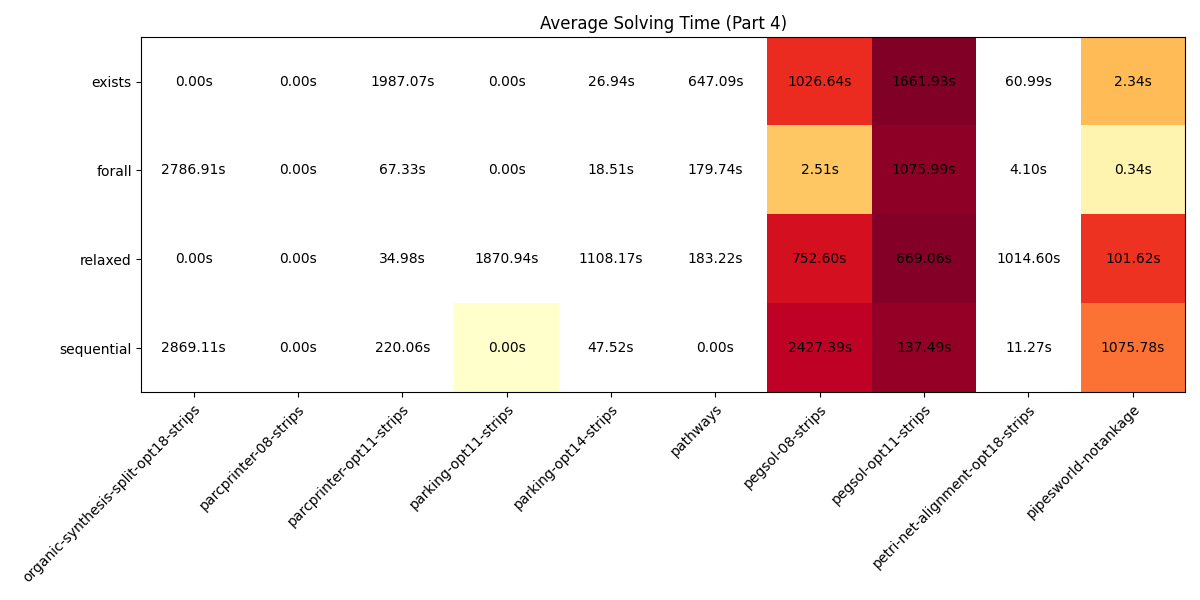
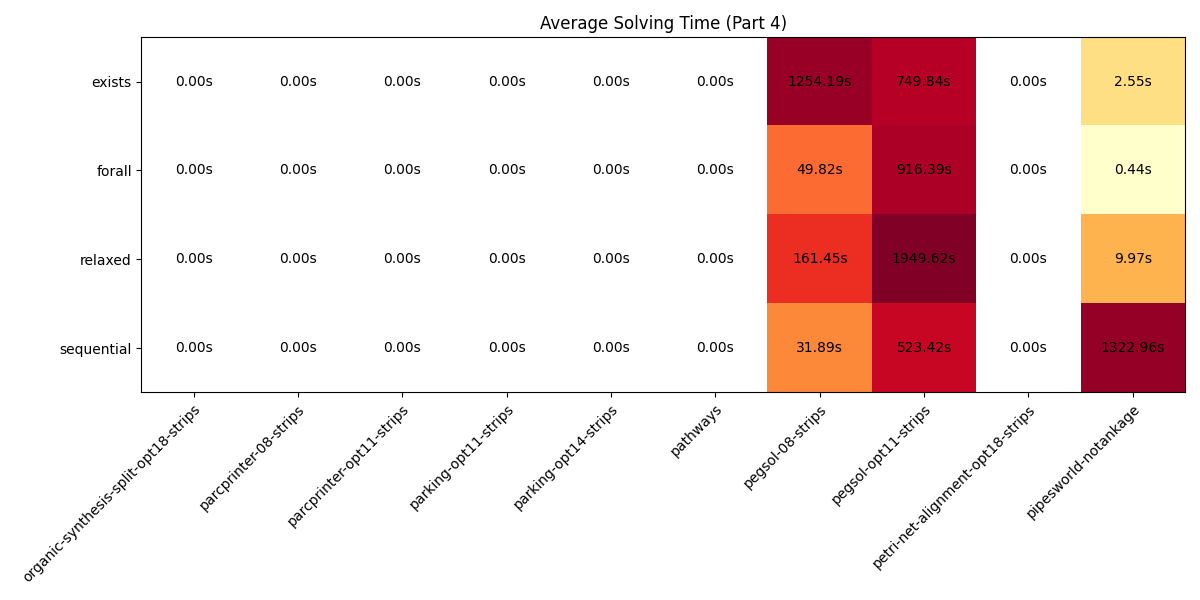
Add parallel to sequential steps

diff --git a/plot.py b/plot.py
@@ -3,6 +3,64 @@ import numpy as np
 import os
 import json
 
+def get_algo_stats(data):
+    results = {}
+    problem_solutions = {} # {(domain, problem): {algo: time}}
+    num_problems = {}
+    for run_data in data.values():
+        algo = run_data.get("algorithm")
+        domain = run_data.get("domain")
+        problem = run_data.get("problem")
+        result = 1 if run_data.get("result", "UNKNOWN") != "UNKNOWN" else 0
+        time = run_data.get("clingo_total_time", 0) if result == 1 else 0
+        if algo not in results:
+            results[algo] = {}
+        if domain not in results[algo]:
+            results[algo][domain] = 0
+
+        results[algo][domain] += result
+
+        key = (domain, problem)
+        if key not in problem_solutions:
+            problem_solutions[key] = {}
+        if result == 1:
+            problem_solutions[key][algo] = time
+
+    for (domain, _) in problem_solutions.keys():
+        if domain not in num_problems:
+            num_problems[domain] = 0
+        num_problems[domain] +=1
+
+    return results, problem_solutions, num_problems
+
+
+def filter_times(problem_solutions, algos):
+    filtered_times = {algo: {} for algo in algos}
+    for (domain, _), times in problem_solutions.items():
+        if len(times) == len(algos):
+            for algo in algos:
+                if algo in times:
+                    if domain not in filtered_times[algo]:
+                        filtered_times[algo][domain] = []
+                    filtered_times[algo][domain].append(times[algo])
+    return filtered_times
+
+
+def create_matrices(algo_stats, filtered_times, algos, domains, num_problems):
+    result_matrix = np.zeros((len(algos), len(domains)), dtype=int)
+    normalized_result_matrix = np.zeros((len(algos), len(domains)))
+    time_matrix = np.zeros((len(algos), len(domains)))
+    for i, algo in enumerate(algos):
+        for j, domain in enumerate(domains):
+            result_matrix[i,j] = algo_stats[algo][domain]
+            normalized_result_matrix[i,j] = result_matrix[i,j] / num_problems[domain]
+            if domain in filtered_times[algo]:
+                time_matrix[i,j] = np.mean(filtered_times[algo][domain])
+            else:
+                time_matrix[i,j] = 0
+    return result_matrix, normalized_result_matrix, time_matrix
+
+
 def create_heat_map(properties_file):
     data = {}
     try:
@@ -12,40 +70,13 @@ def create_heat_map(properties_file):
             data = json.load(f)
     except (json.JSONDecodeError, IOError) as e:
             print(f"Error reading properties file: {e}")
-    errors = []
-    algo_stats = {}
-    for run_data in data.values():
-        error = run_data.get("unexplained_errors", [])
-        if error and isinstance(error,list):
-            for err_msg in error:
-                if err_msg not in errors and "driver.log" not in err_msg:
-                    errors.append(err_msg)
-                    print(error)
-        algo = run_data.get("algorithm")
-        domain = run_data.get("domain")
-        time = run_data.get("clingo_total_time", 0)
-        result = 1 if run_data.get("result", "UNKNOWN") != "UNKNOWN" else 0
-        if algo not in algo_stats:
-            algo_stats[algo] = {}
-        if domain not in algo_stats[algo]:
-            algo_stats[algo][domain] = {"results": 0, "times": []}
+    
+    results, problem_solutions, num_problems = get_algo_stats(data)
+    algos = list(results.keys())
+    domains = list(results[algos[0]].keys())
 
-        algo_stats[algo][domain]["results"] += result
-        algo_stats[algo][domain]["times"].append(time)
-
-    algos = list(algo_stats.keys())
-    domains = list(algo_stats[algos[0]].keys())
-    num_problems = {}
-    for d in algo_stats[algos[0]].keys():
-        num_problems[d] = len(algo_stats[algos[0]][d]["times"])
-    result_matrix = np.zeros((len(algos), len(domains)), dtype=int)
-    normalized_result_matrix = np.zeros((len(algos), len(domains)))
-    time_matrix = np.zeros((len(algos), len(domains)))
-    for i, algo in enumerate(algos):
-        for j, domain in enumerate(domains):
-            result_matrix[i,j] = algo_stats[algo][domain]["results"]
-            time_matrix[i,j] = np.mean(algo_stats[algo][domain]["times"])
-            normalized_result_matrix[i,j] = result_matrix[i,j] / num_problems[domain]
+    filtered_times = filter_times(problem_solutions, algos)
+    result_matrix, normalized_result_matrix, time_matrix = create_matrices(results, filtered_times, algos, domains, num_problems)
 
     chunk_size = 10
     for chunk_idx in range(0, len(domains), chunk_size):
@@ -63,7 +94,7 @@ def create_heat_map(properties_file):
                             ha="center", va="center", color="black")
         ax.set_title(f"Solved instances (Part {chunk_idx//chunk_size + 1})")
         fig.tight_layout()
-        plt.savefig(f"solved_part{chunk_idx//chunk_size + 1}.png")
+        plt.savefig(f"plots/solved_part{chunk_idx//chunk_size + 1}.png")
         plt.close()
 
         chunk_time = time_matrix[:, chunk_idx:chunk_idx+chunk_size]
@@ -79,10 +110,10 @@ def create_heat_map(properties_file):
         ax2.set_yticks(range(len(algos)), labels=algos)
         for i in range(len(algos)):
             for j in range(len(chunk_domains)):
-                text = ax2.text(j, i, f"{time_matrix[i,j]:.2f}s",
+                text = ax2.text(j, i, f"{chunk_time[i,j]:.2f}s",
                             ha="center", va="center", color="black")
         ax2.set_title(f"Average Solving Time (Part {chunk_idx//chunk_size + 1})")
         fig2.tight_layout()
-        plt.savefig(f"avg_time_part{chunk_idx//chunk_size + 1}.png")
+        plt.savefig(f"plots/avg_time_part{chunk_idx//chunk_size + 1}.png")
 
     

diff --git a/experiment.py b/experiment.py
@@ -9,6 +9,7 @@ from bw_cluster_environments import BWUniEnvironment
 from pathlib import Path
 
 from downward.reports.absolute import AbsoluteReport
+from downward.reports.scatter import ScatterPlotReport
 from downward import suites
 from lab.environments import LocalEnvironment
 from lab.experiment import Experiment
@@ -97,13 +98,11 @@ def create_plots():
     create_heat_map(properties_file)
 
 def remove_explained_errors(run):
-    explained_messages = [
-        'run.err: /pfs/data6/home/hd/hd_hd/hd_we303/ParallelASPPlanning/common.lp:22:1-16: info: no atoms over signature occur in program:\n  occurs/2\n']
     errors = run.get("unexplained_errors")
     if errors:
         run["unexplained_errors"] = [
             error for error in errors
-            if all(msg not in error for msg in explained_messages)]
+            if ": info:" not in error]
     return True
 
 def remove_unsat_times(run):
@@ -121,10 +120,11 @@ for algo in ALGORITHM:
         run.add_resource(algo, f"algorithms/{algo}.lp", symlink=True)
         run.add_command("downward_pddl_to_sas", [sys.executable, Path(SCRIPT_DIR) / "../downward/fast-downward.py", "--translate", task.domain_file, task.problem_file])
         run.add_command("plasp_sas_to_asp", [f"{SCRIPT_DIR}/../plasp translate output.sas > output.lp"], shell=True)
-        #run.add_command("clingo_solve", [SCRIPT_DIR + "/../clingo/clingo", "ouf=2", f"--time-limit={TIME_LIMIT}", Path(SCRIPT_DIR) / "algorithms" / "common.lp", f"{{{algo}}}", "output.lp"])
         run.add_command("clingo_solve", [f"{SCRIPT_DIR}/../clingo/clingo --outf=2 --time-limit={TIME_LIMIT} {Path(SCRIPT_DIR) / 'algorithms' / 'common.lp'} {{{algo}}} output.lp > output.json"], shell=True)
-        run.add_command("clingo_to_sas_plan", [sys.executable, f"{SCRIPT_DIR}/clingo_to_sas_plan.py"])
-        run.add_command("validate_plan", ["validate", task.domain_file, task.problem_file, "sas_plan"])
+        run.add_command("extract_occurs", [sys.executable, f"{SCRIPT_DIR}/extract_occurs.py"])
+        run.add_command("parallel_to_seq", [f"{SCRIPT_DIR}/../clingo/clingo --outf=2 {Path(SCRIPT_DIR) / "algorithms" / "parallel_to_sequential.lp"} plan.lp > sequential.json"], shell=True)
+        run.add_command("lp_to_sas_plan", [sys.executable, f"{SCRIPT_DIR}/lp_to_sas_plan.py"])
+        run.add_command("validate_plan", ["Validate", task.domain_file, task.problem_file, "sas_plan"])
         run.add_command("remove_tmp_files", ["rm", "-f", "output.sas", "output.lp", "output.json"])
         run.set_property("component_optins", f"clingo --timit-limit={TIME_LIMIT} common.lp {algo} output.lp")
         run.set_property("domain", task.domain)

diff --git a/extract_occurs.py b/extract_occurs.py
@@ -1,0 +1,18 @@
+import json
+import re
+import os
+from pathlib import Path
+
+
+data = {}
+try:
+    if not os.path.exists("output.json"):
+        raise FileNotFoundError
+    with open("output.json", 'r') as f:
+        data = json.load(f)
+except (json.JSONDecodeError, IOError) as e:
+        print(f"Error reading properties file: {e}")
+values = data["Call"][-1]["Witnesses"][0]["Value"]
+with open("plan.lp", "w") as f:
+    for value in values:
+        f.write(f"{value}.\n")
